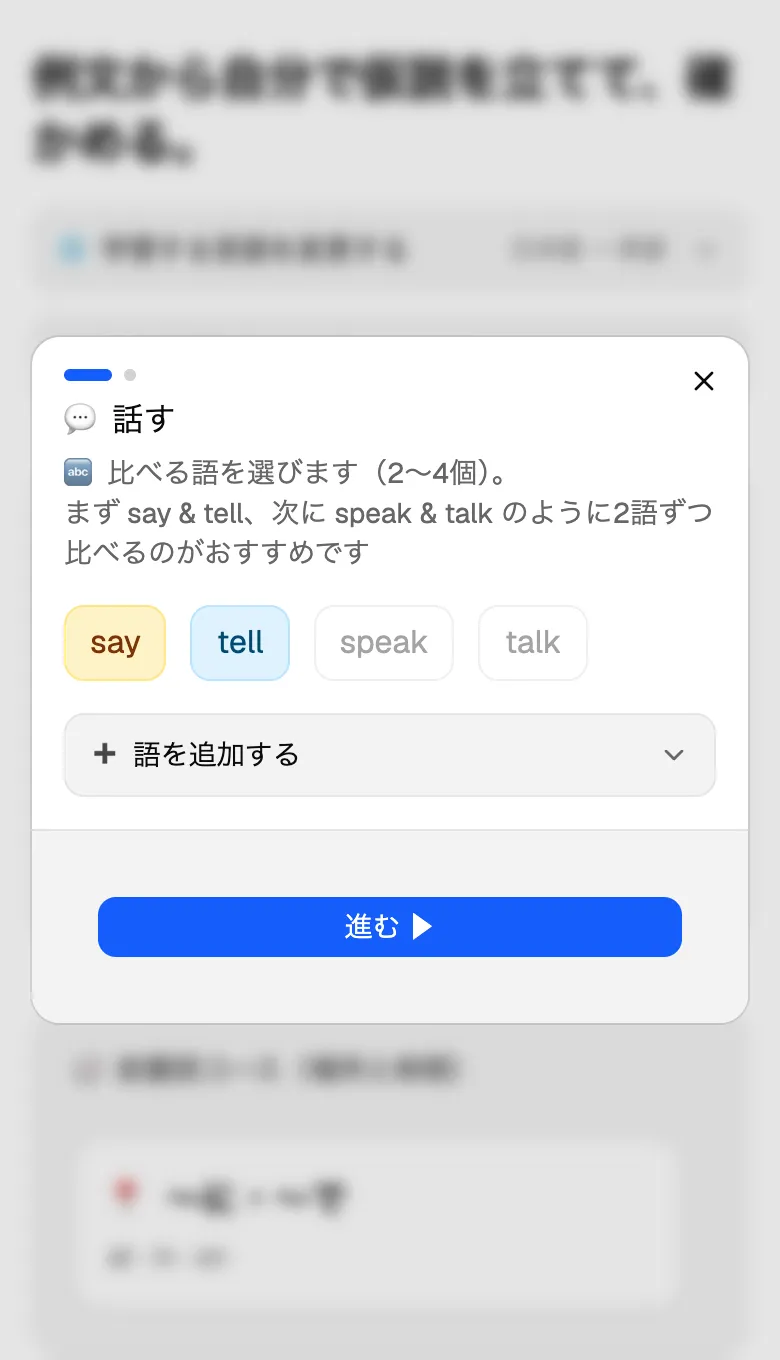
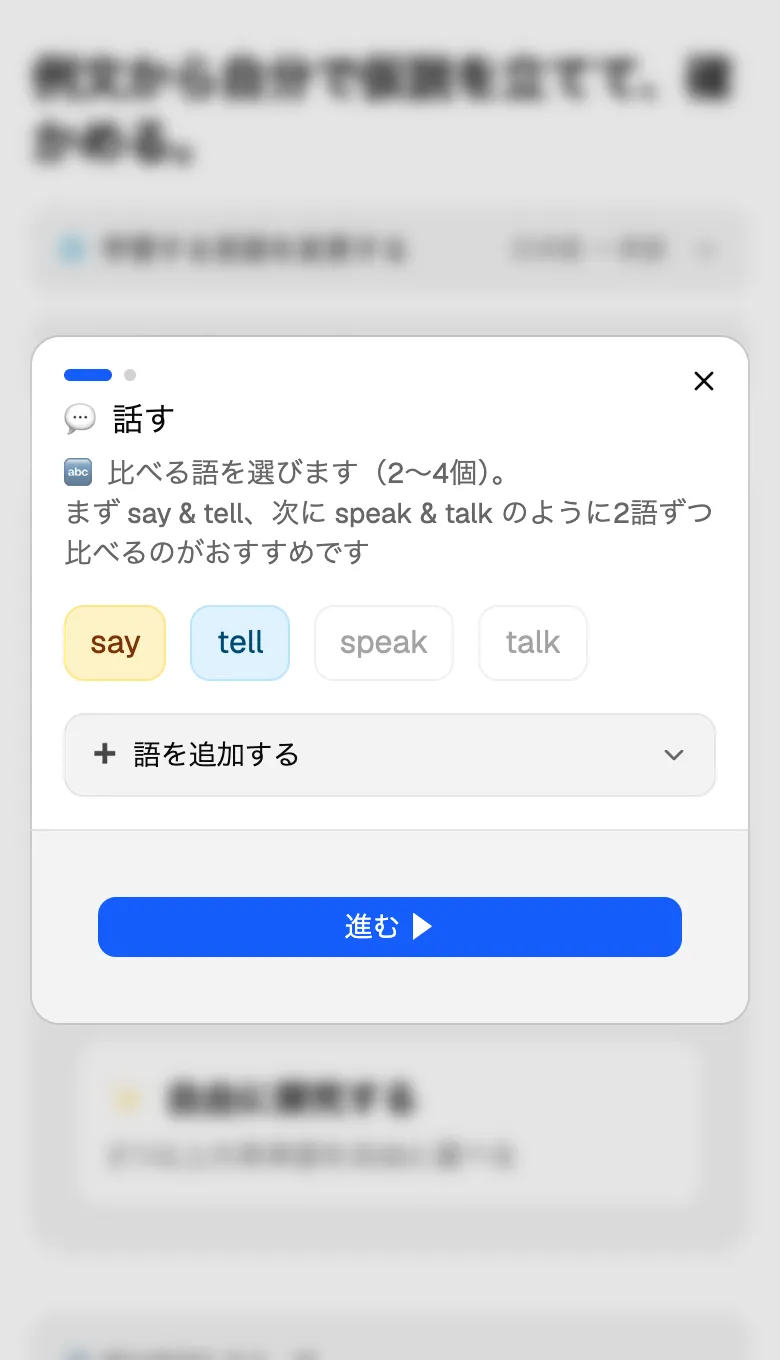
ホームのコースを「基本コース」1つのカルーセルにまとめ、自由に探究するを「オリジナルのコース」の見出しの下に分ける
基本動詞コース・前置詞コースと分けず、すべてのグループを1つのカルーセルに並べる。
同じセクション内に「オリジナルのコース」の見出しを置き、自由に探究するのカードを1枚だけ置く。
カルーセルのカードはすべて「用意された語の組み合わせ」、下は「自分で語を選ぶ」と読めるようにするため。
ヘルプのスクリーンショット（course / words / genre）も撮り直した。

diff --git a/src/pages/Home.tsx b/src/pages/Home.tsx
@@ -87,19 +87,16 @@ export function Home() {
 
   const tutorialInquiry = tutorial.status === "running" ? inquiries.find((x) => x.id === tutorial.inquiryId) : undefined;
 
-  // A group whose words have all been explored (the tutorial's included) reopens its latest inquiry instead of
-  // starting another: a new genre or verification goes into the same inquiry, so the hypothesis keeps growing in
-  // one place. Those groups move to the end. A group explored only partway (say & tell of four) stays in place and
-  // starts its next inquiry with the words not yet compared.
-  const rows = ownCourses.map((course) => {
-    const cards = course.groups.map((g) => ({ g, ...groupProgress(g, inquiries, defaultL1, defaultL2) }));
-    cards.sort((a, b) => Number(!!a.latest) - Number(!!b.latest));
-    return { course, cards };
-  });
-  // Courses come in the order they are recommended, so the next group is the first unfinished one across all of them.
-  const nextGroup = rows.flatMap((r) => r.cards).find((x) => !x.latest)?.g;
+  // Every course's groups share one row. A group whose words have all been explored (the tutorial's included)
+  // reopens its latest inquiry instead of starting another: a new genre or verification goes into the same inquiry,
+  // so the hypothesis keeps growing in one place. Those groups move to the end. A group explored only partway
+  // (say & tell of four) stays in place and starts its next inquiry with the words not yet compared.
+  const cards = ownCourses.flatMap((course) => course.groups).map((g) => ({ g, ...groupProgress(g, inquiries, defaultL1, defaultL2) }));
+  cards.sort((a, b) => Number(!!a.latest) - Number(!!b.latest));
+  // Courses come in the order they are recommended, so the next group is the first unfinished one.
+  const nextGroup = cards.find((x) => !x.latest)?.g;
 
-  function openGroup({ g, latest, started, remaining, covered }: (typeof rows)[number]["cards"][number]) {
+  function openGroup({ g, latest, started, remaining, covered }: (typeof cards)[number]) {
     if (latest) return nav(`/inquiry/${latest.id}`);
     if (!started) return setDialog({ group: g });
     // Compare two at a time: the words left, topped up with one already explored when only one is left.
@@ -107,17 +104,8 @@ export function Home() {
     setDialog({ group: g, preselect });
   }
 
-  // Free inquiry stays in the first course's row, where it was before there were more courses.
-  const firstFinished = rows[0]?.cards.find((x) => x.latest);
-  const free = freeCard(!nextGroup && !tutorialInquiry);
-  function freeCard(recommended: boolean) {
-    return (
-      <EntryCard key="free" recommended={recommended} onClick={() => setDialog({ group: null })}>
-        <div className="text-lg font-semibold"><span className="mr-2">✨</span>{t({ ja: "自由に探究する", en: "Custom inquiry" })}</div>
-        <div className={cn("mt-1 text-sm", recommended ? "text-blue-100" : "text-muted-foreground")}>{t({ ja: "2つ以上の英単語を自由に選べる", en: "Pick any two or more English words" })}</div>
-      </EntryCard>
-    );
-  }
+  // Once every group is finished, free inquiry is what is left to recommend.
+  const freeRecommended = !nextGroup && !tutorialInquiry;
 
   return (
     <div className="mx-auto max-w-5xl px-4 py-6">
@@ -150,36 +138,38 @@ export function Home() {
         </section>
       )}
 
-      {rows.length > 0 ? (
-        rows.map(({ course, cards }, ri) => (
-          <section key={course.id} className="mb-8 rounded-2xl border bg-card p-5">
-            <h2 className="text-sm font-semibold text-muted-foreground">{course.title[uiLang] ?? course.title.en}</h2>
-            <Carousel>
-              {cards.flatMap((card, i) => {
-                const { g, latest, started, remaining } = card;
-                // The course order decides the recommended entry point: the first group not yet finished
-                // (unless the tutorial is still running: then its "continue" is the one recommendation).
-                const recommended = g === nextGroup && !tutorialInquiry;
-                const groupCard = (
-                  <EntryCard key={g.id} recommended={recommended} onClick={() => openGroup(card)}>
-                    <div className="text-lg font-semibold"><span className="mr-2">{g.emoji}</span>{g.label[uiLang] ?? g.label.en}</div>
-                    {showsTargetList(g, uiLang) && <div className={cn("mt-1 text-sm", recommended ? "text-blue-100" : "text-muted-foreground")}>{g.targets.map((x) => x.label).join(" · ")}</div>}
-                    {latest ? (
-                      <div className="mt-2 text-xs font-medium text-muted-foreground">{t({ ja: "▶ 探究を再開する", en: "▶ Resume inquiry" })}</div>
-                    ) : started && (
-                      <div className={cn("mt-2 text-xs font-medium", recommended ? "text-blue-100" : "text-muted-foreground")}>{t({ ja: `▶ 次は ${remaining.join(" · ")}`, en: `▶ Next: ${remaining.join(" · ")}` })}</div>
-                    )}
-                  </EntryCard>
-                );
-                if (ri > 0) return [groupCard];
-                // Free inquiry is one more entry point of the same kind, so it sits in the row as a card: after the groups
-                // still to do and before the finished ones. Once every group is finished that puts it first, which is also
-                // when the recommendation moves to it for good.
-                return card === firstFinished ? [free, groupCard] : i === cards.length - 1 && !firstFinished ? [groupCard, free] : [groupCard];
-              })}
-            </Carousel>
-          </section>
-        ))
+      {cards.length > 0 ? (
+        <section className="mb-8 rounded-2xl border bg-card p-5">
+          <h2 className="text-sm font-semibold text-muted-foreground">{t({ ja: "🧭 基本コース", en: "🧭 Basic course" })}</h2>
+          <Carousel>
+            {cards.map((card) => {
+              const { g, latest, started, remaining } = card;
+              // The course order decides the recommended entry point: the first group not yet finished
+              // (unless the tutorial is still running: then its "continue" is the one recommendation).
+              const recommended = g === nextGroup && !tutorialInquiry;
+              return (
+                <EntryCard key={g.id} recommended={recommended} onClick={() => openGroup(card)}>
+                  <div className="text-lg font-semibold"><span className="mr-2">{g.emoji}</span>{g.label[uiLang] ?? g.label.en}</div>
+                  {showsTargetList(g, uiLang) && <div className={cn("mt-1 text-sm", recommended ? "text-blue-100" : "text-muted-foreground")}>{g.targets.map((x) => x.label).join(" · ")}</div>}
+                  {latest ? (
+                    <div className="mt-2 text-xs font-medium text-muted-foreground">{t({ ja: "▶ 探究を再開する", en: "▶ Resume inquiry" })}</div>
+                  ) : started && (
+                    <div className={cn("mt-2 text-xs font-medium", recommended ? "text-blue-100" : "text-muted-foreground")}>{t({ ja: `▶ 次は ${remaining.join(" · ")}`, en: `▶ Next: ${remaining.join(" · ")}` })}</div>
+                  )}
+                </EntryCard>
+              );
+            })}
+          </Carousel>
+          {/* Free inquiry gets its own heading so that everything in the row above reads as "a prepared set of words".
+              The grid matches the carousel's card widths (1 / 2 / 3 per row) so the card is the same size as those. */}
+          <h2 className="mt-6 text-sm font-semibold text-muted-foreground">{t({ ja: "✏ オリジナルのコース", en: "✏ Your own course" })}</h2>
+          <div className="grid gap-4 pt-6 sm:grid-cols-2 lg:grid-cols-3 lg:gap-6">
+            <EntryCard recommended={freeRecommended} onClick={() => setDialog({ group: null })}>
+              <div className="text-lg font-semibold"><span className="mr-2">✨</span>{t({ ja: "自由に探究する", en: "Custom inquiry" })}</div>
+              <div className={cn("mt-1 text-sm", freeRecommended ? "text-blue-100" : "text-muted-foreground")}>{t({ ja: "2つ以上の英単語を自由に選べる", en: "Pick any two or more English words" })}</div>
+            </EntryCard>
+          </div>
+        </section>
       ) : (
         <section className="mb-8">
           <p className="text-sm whitespace-pre-line text-muted-foreground">{t({ ja: "この言語には既定コースがまだありません。\n「自由に探究する」から始めてください。", en: "No default course for this language yet.\nStart with a custom inquiry." })}</p>

diff --git a/tests/ui/screens.test.ts b/tests/ui/screens.test.ts
@@ -31,7 +31,7 @@ describe("the home screen", () => {
     await app.go("/");
     const main = app.page.locator("main");
 
-    expect(await textOf(main)).toContain("基本動詞コース");
+    expect(await textOf(main)).toContain("基本コース");
     expect(await textOf(main)).toContain("listen · hear");
     expect(await textOf(main)).toContain("say · tell · speak · talk");
     expect(await textOf(main)).toContain("探究を再開する");
@@ -42,22 +42,33 @@ describe("the home screen", () => {
     app = await openApp({ seed: true });
     await app.go("/");
 
-    const recommended = app.page.locator("section", { hasText: "基本動詞コース" }).getByText("おすすめ").first();
+    const recommended = app.page.locator("section", { hasText: "基本コース" }).getByText("おすすめ").first();
     expect(await shown(recommended)).toBe(true);
     // the demo finished "listen / hear", so that card offers to reopen it instead
     expect(await textOf(app.page.getByRole("button", { name: /listen · hear/ }))).toContain("探究を再開する");
   });
 
-  it("shows the prepositions course after the verbs, without taking the recommendation from them", async () => {
+  it("puts every course's groups in one basic-course row, prepositions after the verbs, without taking the recommendation", async () => {
     app = await openApp({ seed: true });
     await app.go("/");
 
-    const section = app.page.locator("section", { hasText: "前置詞コース" });
-    expect(await textOf(section)).toContain("〜に・〜で");
+    const section = app.page.locator("section", { hasText: "基本コース" });
+    const labels = await section.locator(".snap-start").allTextContents();
+    expect(labels.findIndex((x) => x.includes("〜に・〜で"))).toBeGreaterThan(labels.findIndex((x) => x.includes("話す")));
+    expect(labels.some((x) => x.includes("自由に探究する"))).toBe(false);
     expect(await textOf(section)).toContain("at · in · on");
-    expect(await section.getByText("おすすめ").count()).toBe(0);
-    const headings = await app.page.locator("main h2").allTextContents();
-    expect(headings.findIndex((x) => x.includes("基本動詞コース"))).toBeLessThan(headings.findIndex((x) => x.includes("前置詞コース")));
+    expect(await app.page.getByRole("button", { name: /at · in · on/ }).getByText("おすすめ").count()).toBe(0);
+    expect(await app.page.locator("main h2").allTextContents()).not.toContainEqual(expect.stringContaining("前置詞コース"));
+  });
+
+  it("sets free inquiry apart under its own heading, in the same section as the basic course", async () => {
+    app = await openApp({ seed: true });
+    await app.go("/");
+
+    const section = app.page.locator("section", { hasText: "基本コース" });
+    const headings = await section.locator("h2").allTextContents();
+    expect(headings).toEqual(["🧭 基本コース", "✏ オリジナルのコース"]);
+    expect(await section.getByRole("button", { name: /自由に探究する/ }).count()).toBe(1);
   });
 
   it("opens the prepositions group with its hint, and with at and in chosen to compare first", async () => {
@@ -86,9 +97,9 @@ describe("the home screen", () => {
 
     const main = app.page.locator("main");
     expect(await textOf(main)).toContain("Form your own hypotheses");
-    expect(await textOf(main)).toContain("Basic verbs course");
-    expect(await textOf(main)).toContain("Prepositions course (place and time)");
-    expect(await textOf(main)).not.toContain("基本動詞コース");
+    expect(await textOf(main)).toContain("Basic course");
+    expect(await textOf(main)).toContain("Your own course");
+    expect(await textOf(main)).not.toContain("基本コース");
   });
 });
 

diff --git a/src/lib/courses.ts b/src/lib/courses.ts
@@ -26,21 +26,20 @@ export function showsTargetList(g: CourseGroup, lang: string) {
 export interface Course {
   id: string;
   l2: string;
-  /** The heading over the course's cards, keyed by uiLang code with fallback "en" (it is screen copy, not a concept label). */
-  title: Record<string, string>;
   groups: CourseGroup[];
 }
 
 /**
  * Default courses, in the order they are recommended. A language may have several; the first one is the
- * tutorial's (see tutorialGroup), so new courses go after it.
+ * tutorial's (see tutorialGroup), so new courses go after it. On screen they are not told apart: all their groups
+ * share one "basic course" row, because to the learner every card there is the same kind of thing, a ready-made
+ * set of words, as opposed to free inquiry.
  */
 export const courses: Course[] = [
   {
     // The 13 basic verbs in 4 groups: the scope used in the book.
     id: "verbs",
     l2: "en",
-    title: { ja: "🧭 基本動詞コース（本と同じ13語）", en: "🧭 Basic verbs course (the book's 13 verbs)" },
     groups: [
       {
         id: "hear",
@@ -94,7 +93,6 @@ export const courses: Course[] = [
     // the contrast the learner is looking for.
     id: "prepositions",
     l2: "en",
-    title: { ja: "🧭 前置詞コース（場所と時間）", en: "🧭 Prepositions course (place and time)" },
     groups: [
       {
         id: "at-in-on",

diff --git a/tests/ui/flows.test.ts b/tests/ui/flows.test.ts
@@ -51,7 +51,7 @@ describe("the first run", () => {
 
     expect(main).toContain("例文から自分で仮説を立てて、確かめる。");
     expect(main).toContain("🚀 はじめる");
-    expect(main).not.toContain("基本動詞コース");
+    expect(main).not.toContain("基本コース");
   });
 
   it("offers the way to skip, and shows the menu once it is taken", async () => {
@@ -60,7 +60,7 @@ describe("the first run", () => {
 
     await app.page.getByRole("button", { name: /チュートリアルを飛ばす/ }).click();
 
-    expect(await shown(app.page.getByText("🧭 基本動詞コース"))).toBe(true);
+    expect(await shown(app.page.getByText("🧭 基本コース"))).toBe(true);
     expect(await app.page.evaluate(() => JSON.parse(localStorage.getItem("abduction-learning.settings")!).tutorial.status)).toBe("done");
   });
 
@@ -327,6 +327,6 @@ describe("working inside an inquiry", () => {
 
     await app.page.locator('main a[href="#/"]').first().click();
 
-    expect(await shown(app.page.getByText("🧭 基本動詞コース"))).toBe(true);
+    expect(await shown(app.page.getByText("🧭 基本コース"))).toBe(true);
   });
 });

diff --git a/src/lib/courses.test.ts b/src/lib/courses.test.ts
@@ -5,10 +5,9 @@ const english = courses.find((c) => c.l2 === "en")!;
 const prepositions = courses.find((c) => c.id === "prepositions")!;
 
 describe("the courses", () => {
-  it("give every course a unique id and a heading in both screen languages", () => {
+  it("give every course a unique id", () => {
     const ids = courses.map((c) => c.id);
     expect(new Set(ids).size).toBe(ids.length);
-    expect(courses.every((c) => !!c.title.ja && !!c.title.en)).toBe(true);
   });
 
   it("put the basic verbs first for English, so the tutorial and the first recommendation stay there", () => {
